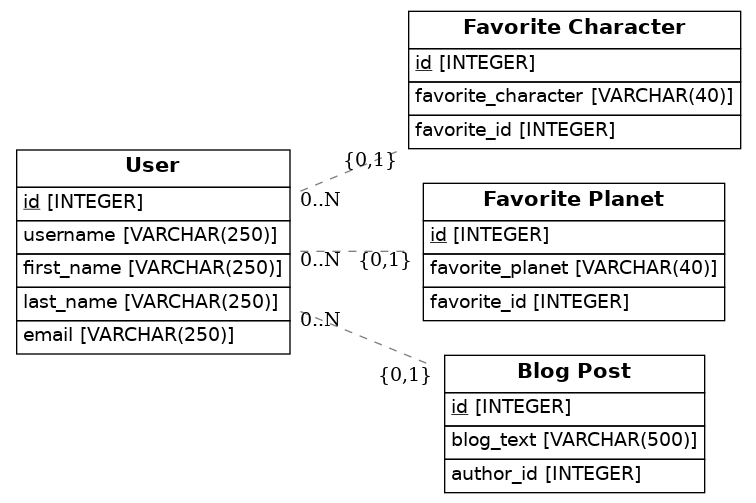
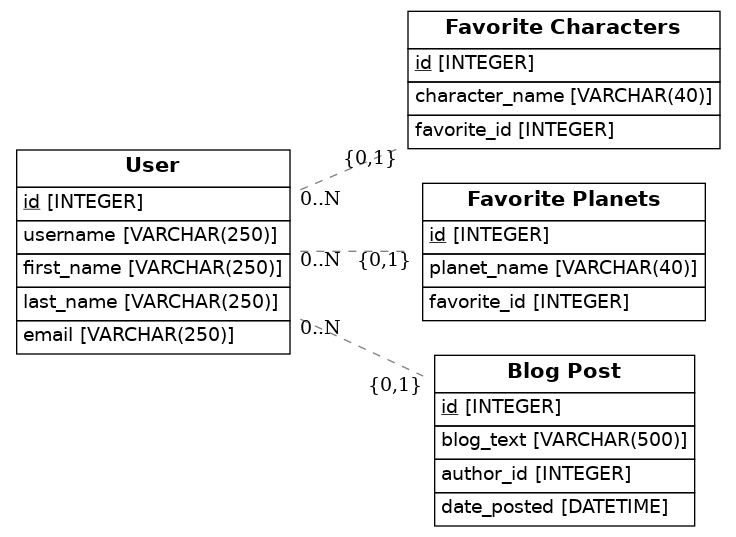
model update

Changed region(s): [[0.0, 0.0, 1.0, 0.9841]]

diff --git a/src/models.py b/src/models.py
@@ -1,6 +1,7 @@
 import os
 import sys
-from sqlalchemy import Column, ForeignKey, Integer, String
+from datetime import datetime
+from sqlalchemy import Column, ForeignKey, Integer, String, DateTime
 from sqlalchemy.ext.declarative import declarative_base
 from sqlalchemy.orm import relationship
 from sqlalchemy import create_engine
@@ -35,6 +36,7 @@ class BlogPost(Base):
     id = Column(Integer, primary_key=True)
     blog_text = Column(String(500))
     author_id = Column(Integer,ForeignKey('User.id'))
+    date_posted = Column(DateTime, nullable=False, default= datetime.utcnow)
     user = relationship(User)
     
     
